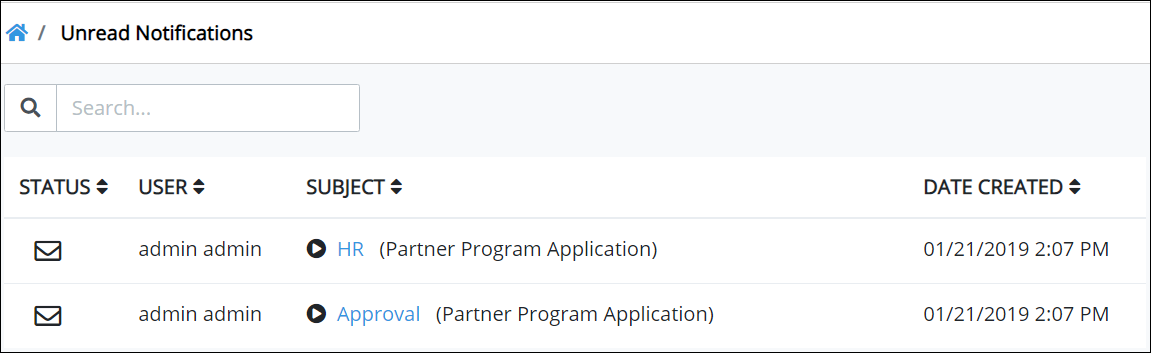
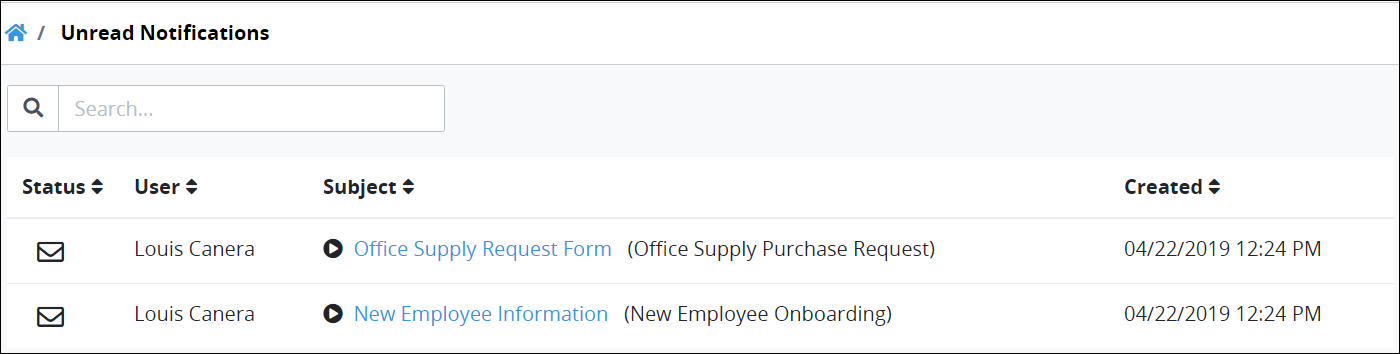
GitBook: [processmaker] 2 pages and 3 assets modified

diff --git a/using-processmaker/notifications.md b/using-processmaker/notifications.md
@@ -28,7 +28,7 @@ Notifications remain visible until you do one of the following:
 A notification may contain the following information:
 
 * **Task name:** The name of the assigned Task displays as a hyperlink to that Task.
-* **Task assignment date:** To the right of the Task name displays the date and time in which the notification was sent to you. The time zone setting to display the time is according to the ProcessMaker 4 server unless your [user profile's](profile-settings.md#change-your-profile-settings) **Time zone** setting is specified.
+* **Task assignment date:** To the right of the Task name displays the date and time in which the notification was sent to you. The time zone setting to display the time is according to the ProcessMaker Spark server unless your [user profile's](profile-settings.md#change-your-profile-settings) **Time zone** setting is specified.
 * **Request name:** Below the assigned Task displays the name of the Request associated with that Task.
 * **Requester:** Below the Request name is the full name of the person who started the Request.
 * **Request completed:** If you are a Request participant when a Request completes, a notification displays **Request completed:** followed by the name of the completed Request.
@@ -36,7 +36,7 @@ A notification may contain the following information:
 * **Dismiss button:** The **Dismiss** button displays at the bottom-right of the notification.
 
 {% hint style="info" %}
-If you have no notifications when you select the Notifications icon![](../.gitbook/assets/notification-icon-notifications.png), the following message displays: **No Tasks Found**.
+If you have no notifications when you select the Notifications icon![](../.gitbook/assets/notification-icon-notifications.png), the following message displays: **No Notifications Found**.
 {% endhint %}
 
 ## View Unread Notifications
@@ -54,12 +54,12 @@ Click the **Unread Notifications** icon![](../.gitbook/assets/unread-notificatio
 
 The **Unread Notifications** page displays the following information in tabular format about your unread notifications:
 
-* **Status:** The **Status** column displays the unread status icon![](../.gitbook/assets/unread-notification-icon-notifications.png)to indicate the notification is unread.
+* **Status:** The **Status** column displays the unread status icon![](../.gitbook/assets/unread-notification-icon-notifications.png)to indicate the notification is unread. Click the icon to indicate that the notification is read. Doing so makes the notification display in the [**All Notifications**](notifications.md#view-all-notifications) page.
 * **User:** The **User** column displays to whom the notification applies. This user is often you, but it might also include others such as a person who canceled a Request.
 * **Subject:** The **Subject** column displays the subject of the notification. If the subject pertains to an assigned Task, the subject includes the following:
   * The name of the Task displays in blue-colored text. Select the Task name to open the Task.
   * The name of the Request associated with the Task displays in parentheses.
-* **Date Created:** The **Date Created** column displays when the notification was sent to you. The time zone setting to display the time is according to the ProcessMaker 4 server unless your [user profile's](profile-settings.md#change-your-profile-settings) **Time zone** setting is specified.
+* **Created:** The **Created** column displays when the notification was sent to you. The time zone setting to display the time is according to the ProcessMaker Spark server unless your [user profile's](profile-settings.md#change-your-profile-settings) **Time zone** setting is specified.
 
 ### Search for a Notification
 
@@ -67,7 +67,7 @@ Search for any notification displaying in the **Unread Notifications** page.
 
 To search for a notification in the **Unread Notifications** page, select the **Search** field and then enter text to filter notifications using any of the following criteria:
 
-* **Username:** Search for the user associated with the notification.
+* **User:** Search for the user associated with the notification.
 * **Subject:** Search by the subject of the notification.
 
 ## View All Notifications
@@ -82,8 +82,8 @@ Follow these steps to view all your notifications:
 The **All Notifications** page displays the following information in tabular format about all your notifications:
 
 * **Status:** The **Status** column displays the status of the notification using one of the following icons:
-  * **Unread status**![](../.gitbook/assets/unread-notification-icon-notifications.png)**:** The notification is unread.
-  * **Read status**![](../.gitbook/assets/read-notification-icon-notifications.png)**:** The notification is either read or dismissed when the notification was viewed.
+  * **Unread status**![](../.gitbook/assets/unread-notification-icon-notifications.png)**:** The notification is unread. Click the icon to indicate its status as read.
+  * **Read status**![](../.gitbook/assets/read-notification-icon-notifications.png)**:** The notification is either read or dismissed when the notification was viewed. Click the icon to indicate its status as unread.
 * **User:** The **User** column displays to whom the notification applies. This user is often you, but it might also include others such as a person who canceled a Request.
 * **Subject:** The **Subject** column displays the subject of the notification. If the subject pertains to an assigned Task, the subject includes the following:
   * **Action icon:** An icon displays what action is associated with the notification so you can prioritize which notification to read first. These are the action icon indicators:
@@ -92,7 +92,7 @@ The **All Notifications** page displays the following information in tabular for
     * **Canceled Request:** The Canceled Request icon![](../.gitbook/assets/notification-action-cancel-request-icon-requests.png)indicates that the notification is associated with a canceled Request.
   * **Task name:** The name of the Task displays in blue-colored text. Select the Task name to open the Task.
   * **Request name:** The name of the Request associated with the Task displays in parentheses.
-* **Date Created:** The **Date Created** column displays when the notification was sent to you. The time zone setting to display the time is according to the ProcessMaker 4 server unless your [user profile's](profile-settings.md#change-your-profile-settings) **Time zone** setting is specified.
+* **Created:** The **Created** column displays when the notification was sent to you. The time zone setting to display the time is according to the ProcessMaker Spark server unless your [user profile's](profile-settings.md#change-your-profile-settings) **Time zone** setting is specified.
 
 ### Search for a Notification
 
@@ -100,7 +100,7 @@ Search for any notification displaying in the **All Notifications** page.
 
 To search for a notification in the **All Notifications** page, select the **Search** field and then enter text to filter notifications using any of the following criteria:
 
-* **Username:** Search for the user associated with the notification.
+* **User:** Search for the user associated with the notification.
 * **Subject:** Search by the subject of the notification.
 
 ## Related Topics

diff --git a/designing-processes/viewing-processes/what-is-a-process.md b/designing-processes/viewing-processes/what-is-a-process.md
@@ -6,7 +6,7 @@ description: Understand what Processes are in ProcessMaker Spark.
 
 ## Overview
 
-A Process is a set of steps and decisions to document how to complete a particular goal, often as efficiently as possible. Use ProcessMaker Spark to design a model of a Process. The Process model is a graphical representation of a Process that ProcessMaker Spark uses as the process definition. A Process may involve people in your organization or might be completely automated through scripting.
+A Process is a set of steps and decisions to document how to complete a particular goal, often as efficiently as possible. Use ProcessMaker Spark to design a model of a Process. The Process model is a graphical representation of a Process that ProcessMaker Spark uses as the process definition. A Process may involve people or be completely automated through scripting.
 
 Any Process designed in or exported from ProcessMaker Spark is BPMN 2.0 compliant. Furthermore, any process to be imported to ProcessMaker Spark must be BPMN 2.0 compliant.
 
